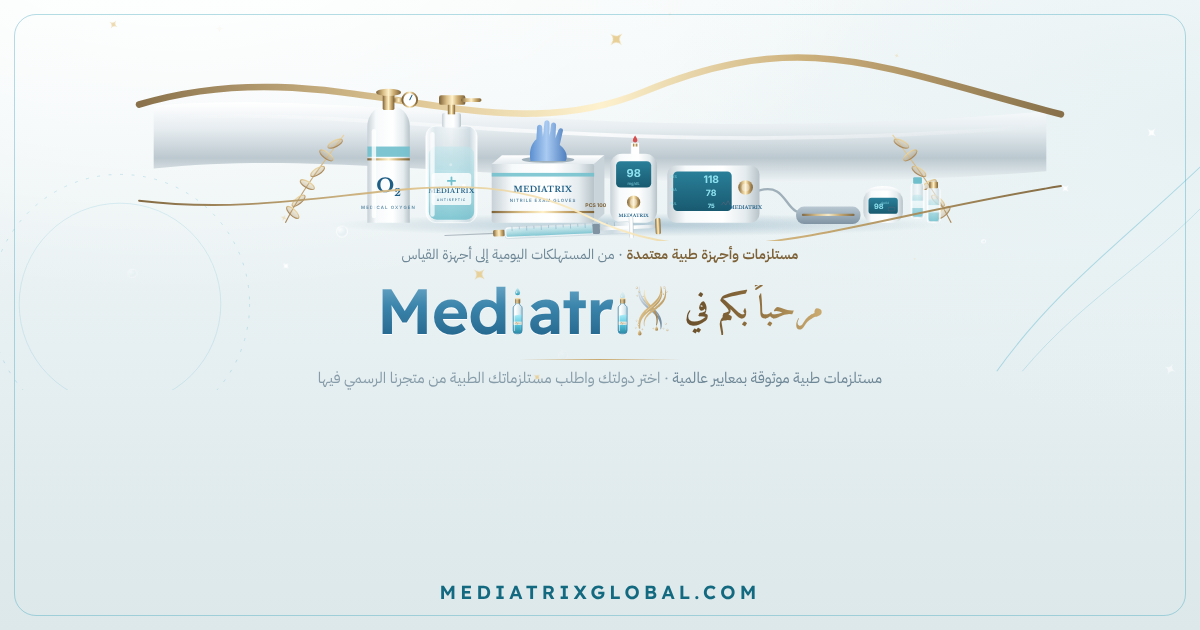
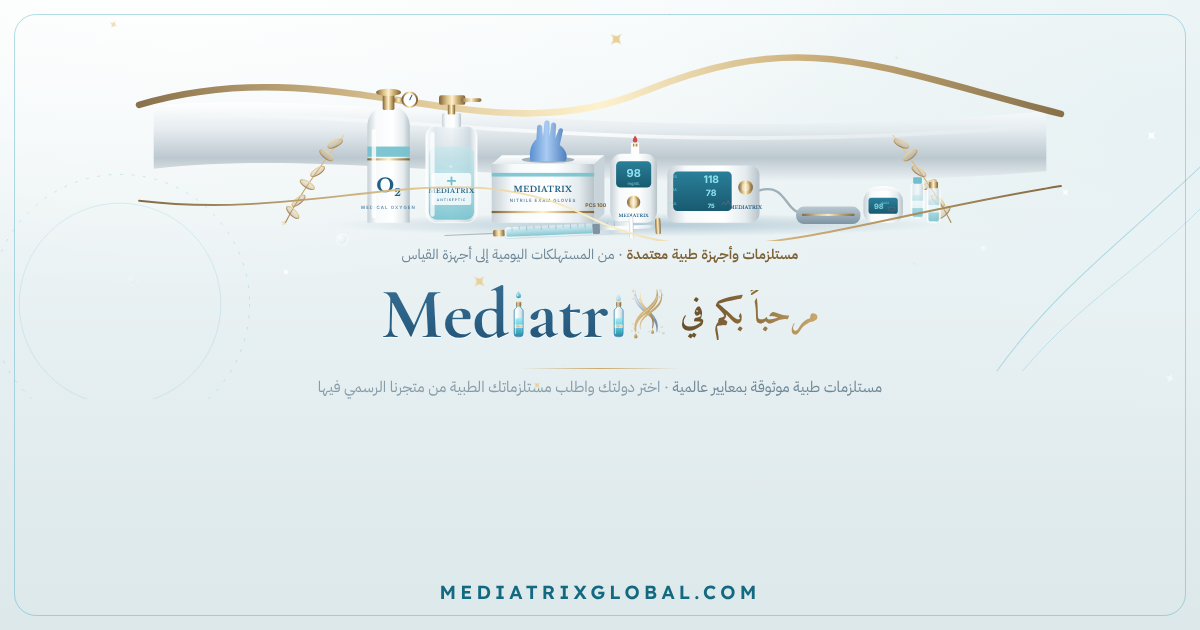
Wordmark letters: Cormorant Garamond (first-version title face) in deep sky blue; bottle and ribbon X unchanged
Claude-Session: https://claude.ai/code/session_016o9QNXHEvhKb4pAdzKRwjF

Changed region(s): [[0.3083, 0.4222, 0.6783, 0.5429], [0.2467, 0.573, 0.74, 0.6333]]

diff --git a/mediatrix/src/app/globals.css b/mediatrix/src/app/globals.css
@@ -345,7 +345,12 @@ body[dir="rtl"] {
 
 /* wordmark letters: silver → sky blue */
 .wm-sky {
-  background: linear-gradient(180deg, #7fb6d3 0%, #3b84ab 45%, #1f5f86 100%);
+  /* chosen wordmark: Cormorant Garamond (the first version's title face), deep sky-blue */
+  font-family: var(--font-display);
+  font-weight: 700;
+  font-size: 1.12em;
+  letter-spacing: 0;
+  background: linear-gradient(180deg, #3a6f92 0%, #2b6185 55%, #1f4f70 100%);
   -webkit-background-clip: text;
   background-clip: text;
   color: transparent;

diff --git a/mediatrix/ops/BACKUPS.md b/mediatrix/ops/BACKUPS.md
@@ -18,3 +18,4 @@
 | 2026-11-21 01:40 | X بشرائط ذهبية وكحلية (قريب من الصورة) + زجاجة i احترافية | (بعد `2b13bd9`) | `af5bc62c-f6ee-4bac-833d-d54d9bea9786` |
 | 2026-11-21 01:49 | إزالة المربع الداكن من الشعار وكل الكتل الداكنة (فاتح ذهبي/ثلجي) | (بعد `08f4e08`) | `a7bc058a-55f2-43ae-a12c-fe2bca06d139` |
 | 2026-11-21 01:57 | نبض حر بدون مربع + نصوص سماوية/فضية بدل الكحلي | (بعد `ef27b53`) | `685216be-71df-4eba-bd1e-2f8542359935` |
+| 2026-11-21 02:07 | خط الاسم Cormorant Garamond (خيار ٢) أزرق سماوي غامق | (بعد `43f0ad0`) | `eb8781b7-dac5-4dd5-953e-96b4ea3ea203` |
